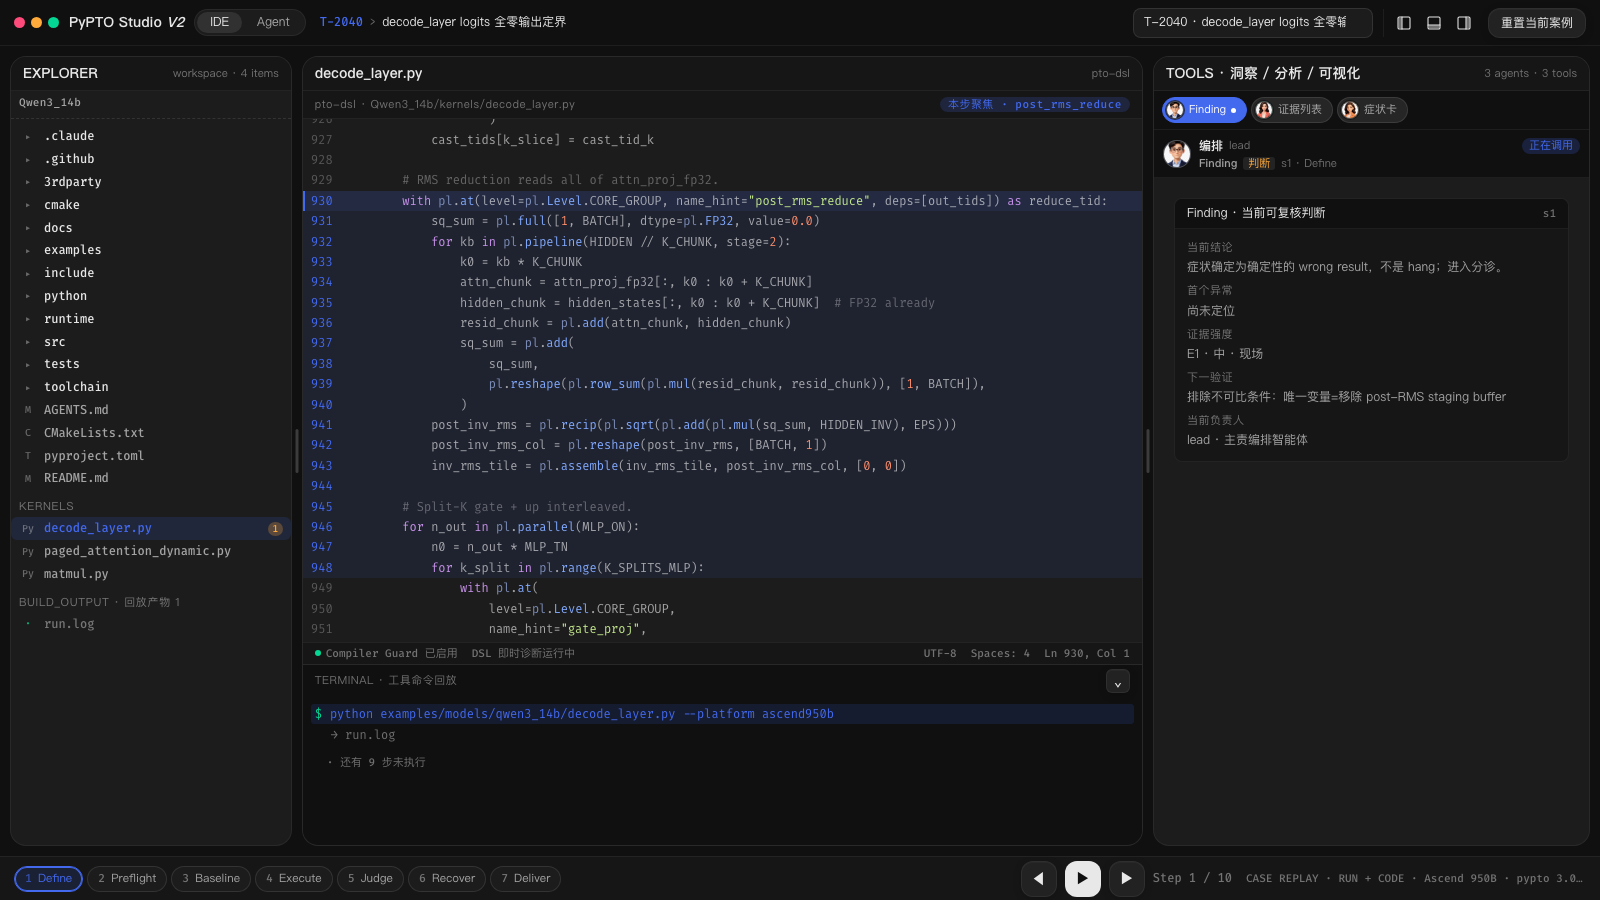
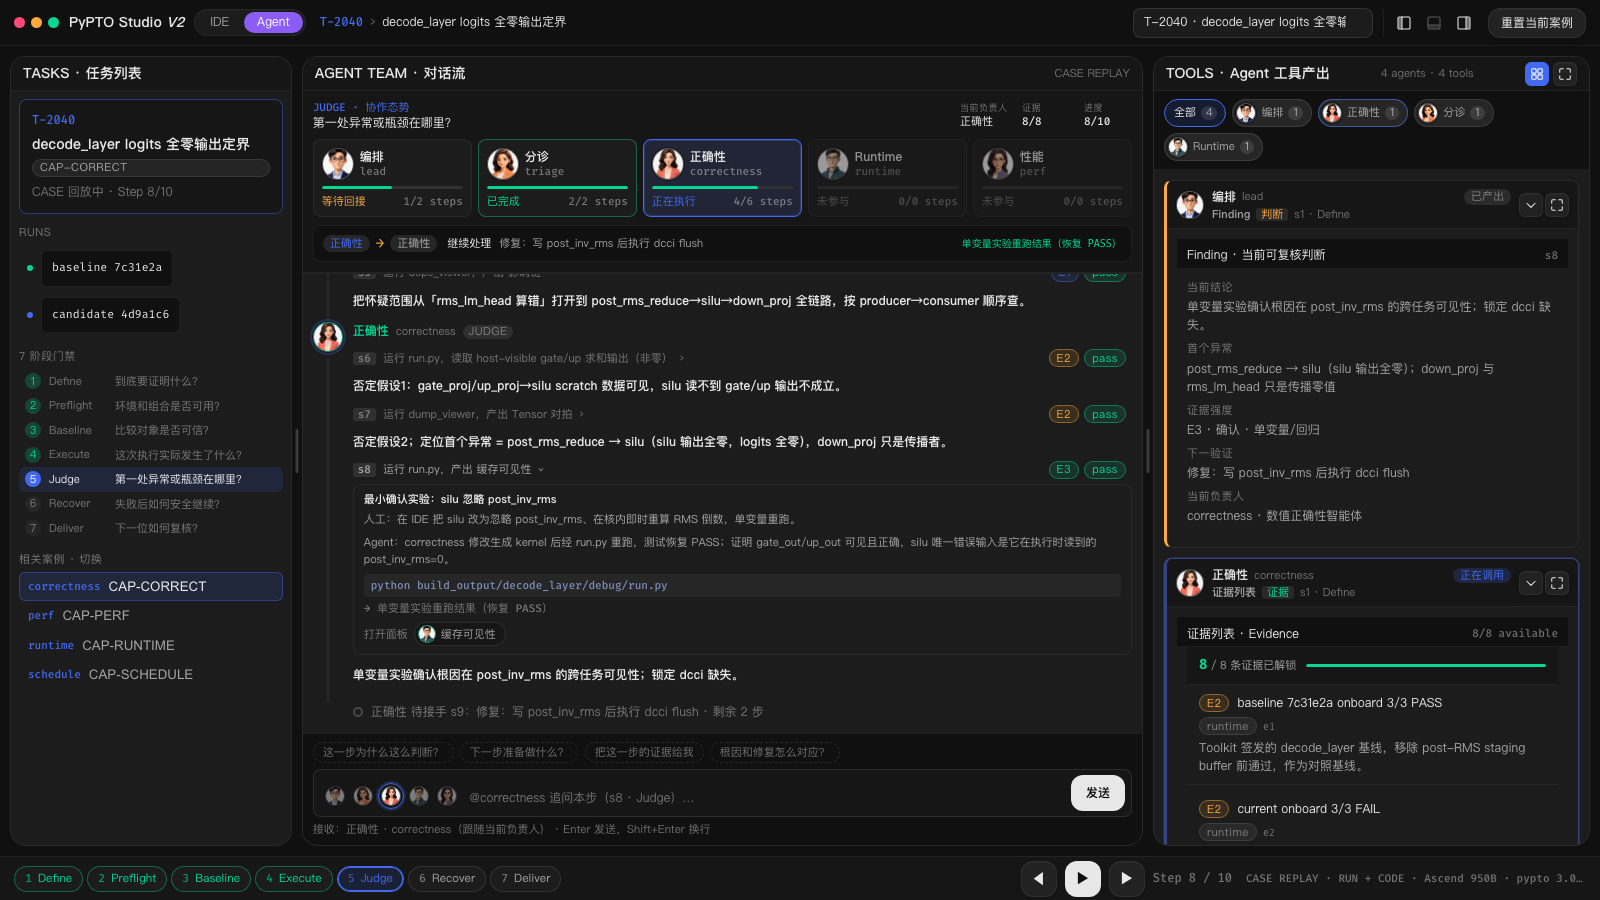
feat(design): 标题点出调试调优，封面换成 Agent 模式
启动台卡片改名为「PyPTO Studio V2 · 调试调优」，副标题统一成英文
Debug & Tuning Replay Workbench，与相邻卡片的命名方式一致。

封面从 IDE 视图换成 Agent 模式回放中的一帧（Step 8/10），能直接看到
Agent 协作态势、工具调用轨迹与带归属的工具面板。

diff --git a/launch.html b/launch.html
@@ -600,8 +600,8 @@
     // 新增 Design Demo 时，在此数组追加一项即可出现在启动台。
     const demos = [
       {
-        title: "PyPTO Studio V2",
-        subtitle: "Decode Layer 调试调优回放工作台",
+        title: "PyPTO Studio V2 · 调试调优",
+        subtitle: "Debug & Tuning Replay Workbench",
         category: "开发工具",
         status: "新版本",
         version: "07 / V2",
